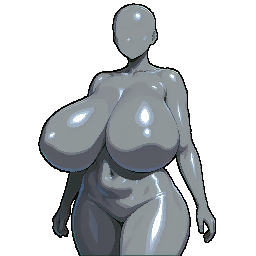
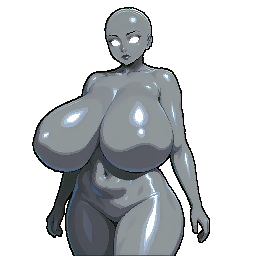
Act on the first four tutorials being walked by a person
The wall first. Tutorial 4 step 3 lights the whole map-button list, and the
callout places itself in the least-blocked corner — with a lit region that
big there is no unblocked corner, so it came to rest over the dropdown the
step was asking the reader to open. The step was unpassable.

The callout is draggable now, which is the only fix that works whenever a step
has to light something large. A drag wins over automatic placement for the
rest of that step, so it does not spring back on the next layout pass, and the
position is forgotten when the step changes so each one is placed afresh. It
stays inside the window: dragged off an edge it could not be retrieved without
restarting.

An empty navigator label really did print the raw token — "vanilla:5_MyRoom"
on the button — while NavigatorButtonDef promised "display name (or the vanilla
in-game name)". The registry carries no display names, so the fallback now
works from the token: drop the scheme, the pack id and the numeric prefix the
game's levels carry, then put spaces back between run-together words.
vanilla:5_MyRoom reads "My Room", 3_LivingRoom "Living Room", pack:MyMod.SecretCave
"Secret Cave". It is a guess and says so; an author who wants exact wording
types a label, which tutorial 2 now has a step for.

Tutorial 1 said "any bust in TutorialArt/Busts" and left the reader to work out
which of ten files in a folder was the base picture. It names the file now, and
the pattern the other four follow.
[…]

Changed region(s): [[0.125, 0.0, 0.8438, 1.0], [0.3438, 0.7812, 0.375, 0.8125]]

diff --git a/SMSModForge/View/Controls/TutorialOverlay.xaml b/SMSModForge/View/Controls/TutorialOverlay.xaml
@@ -37,10 +37,22 @@
             </Rectangle.Effect>
         </Rectangle>
 
+        <!--
+            Draggable. The automatic placement picks the least-blocked corner,
+            which is the right default and still lands on the control when a
+            step lights something large enough to reach every corner — a whole
+            list, say. Being able to shove it aside is the only answer that
+            works in every one of those cases.
+        -->
         <Border x:Name="Callout" HorizontalAlignment="Left" VerticalAlignment="Top"
                 MaxWidth="380" CornerRadius="6" Padding="16,13,16,13"
                 Background="{DynamicResource Theme.Surface}"
-                BorderBrush="#FFC428" BorderThickness="1">
+                BorderBrush="#FFC428" BorderThickness="1"
+                Cursor="SizeAll"
+                ToolTip="Drag to move these instructions out of the way."
+                MouseLeftButtonDown="Callout_MouseLeftButtonDown"
+                MouseMove="Callout_MouseMove"
+                MouseLeftButtonUp="Callout_MouseLeftButtonUp">
             <Border.Effect>
                 <DropShadowEffect Color="#000000" ShadowDepth="3" BlurRadius="18" Opacity="0.5"/>
             </Border.Effect>

diff --git a/SMSModForge/Tutorials/TutorialCatalog.cs b/SMSModForge/Tutorials/TutorialCatalog.cs
@@ -134,8 +134,14 @@ public static class TutorialCatalog
                     Title = "Give them a face",
                     Body = "Every character needs at least one outfit, and every outfit needs a " +
                            "base sprite: the picture of them from the chest up. Point this one " +
-                           "at any bust in TutorialArt/Busts — they differ in shape, which will " +
-                           "matter when you paint a jiggle mask later.\n\n" +
+                           "at one of the five practice busts. They live in TutorialArt/Busts, " +
+                           "one folder each, and the base picture is the file whose name ends in " +
+                           "Base00 — so Bust1 is TutorialArt/Busts/Bust1/Bust1Base00.png, and " +
+                           "Bust2 through Bust5 follow the same pattern.\n\n" +
+                           "Any of them works here. They differ in shape on purpose, which will " +
+                           "matter when you paint a jiggle mask later; the fuller ones give you " +
+                           "more to see. The other files in those folders are the blink, mouth " +
+                           "and expression art, and a later tutorial uses them.\n\n" +
                            "Bust art is 256 by 256 pixels, PNG, with a transparent background. " +
                            "Other sizes are scaled to fit rather than refused, but 256 is the " +
                            "only size whose pixels land exactly as you drew them, and anything " +
@@ -294,6 +300,24 @@ public static class TutorialCatalog
                 },
                 new TutorialStep
                 {
+                    Title = "Say what the button reads",
+                    Body = "Set the button's Label. Without one the game falls back to a name " +
+                           "worked out from the target, which is usually close but rarely what " +
+                           "you would have written — and it is the difference between a button " +
+                           "that says \"My Room\" and one that says whatever the level happens " +
+                           "to be called underneath.\n\n" +
+                           "Write what a player would call the place. The label also takes " +
+                           "[PV:name] tokens, so a button can change what it says once " +
+                           "something in the pack has happened.",
+                    Kind = StepKind.Do,
+                    Tab = TabPlaces,
+                    Anchor = "panel:navigatorButtons",
+                    IsDone = (vm, s) => vm.SelectedPlace is { } p &&
+                                        p.NavigatorButtons.Any(b => b.Label.Trim().Length > 0),
+                    Hint = "The Label box on the navigator button row.",
+                },
+                new TutorialStep
+                {
                     Title = "A door from your bedroom",
                     Body = "Now the way in. The bedroom every save starts in is the one place " +
                            "you can always reach, so that is where the door goes — a vanilla " +
@@ -417,15 +441,36 @@ public static class TutorialCatalog
                     Body = "The name is how everything else finds this object — a rule that " +
                            "switches it on names it, and names repeat all over a level, so pick " +
                            "something you would recognise months from now.\n\n" +
-                           "For the picture, any of the practice art will do; the NPC art in " +
-                           "TutorialArt/NPCs is a convenient shape to see. It does not have to " +
-                           "be art you drew for this — an object is just a sprite in a room.",
+                           "For the picture use TutorialArt/Locations/Vase.png. It is worth " +
+                           "looking at before you pick it: it is a vase and almost nothing " +
+                           "else, on a transparent background, at the size a vase actually is. " +
+                           "Compare that to Room.png, which contains the same vase inside a " +
+                           "full 2048 by 1136 room — the padding IS the difference between a " +
+                           "layer and a prop. Art with a room's worth of empty space around it " +
+                           "cannot be placed, only laid over everything.",
                     Kind = StepKind.Do,
                     Tab = TabPlaces,
                     Anchor = "panel:placeGameObjects",
                     IsDone = (vm, s) => FirstGameObject(vm) is { } g &&
                                         g.Name.Trim().Length > 0 && g.Sprite.Trim().Length > 0,
                     Hint = "Select the object in the tree, then fill in Name and its sprite.",
+                },
+                new TutorialStep
+                {
+                    Title = "Put it where you want it",
+                    Body = "Drag the object in the preview. The gizmo moves the real position — " +
+                           "this is not a preview-only control, it is the same X and Y you " +
+                           "could type in by hand, and typing is the fallback when you want an " +
+                           "exact number rather than a look.\n\n" +
+                           "Put the vase somewhere it could plausibly stand. It will be drawing " +
+                           "over the whole room at the moment, which the next step fixes.",
+                    Kind = StepKind.Do,
+                    Tab = TabPlaces,
+                    Anchor = "panel:placePreview",
+                    AlsoAllow = new[] { "panel:placeGameObjects" },
+                    OnEnter = (vm, s) => s.Set("pos", PropPosition(vm)),
+                    IsDone = (vm, s) => PropPosition(vm) != s.Get<string>("pos"),
+                    Hint = "Click the object in the preview, then drag it.",
                 },
                 new TutorialStep
                 {
@@ -503,10 +548,14 @@ public static class TutorialCatalog
                            "strip, which is a door from one room to another. It works, and it " +
                            "is the right shape for somewhere that sits BEHIND another place — a " +
                            "back office off a shop, a bedroom off a hall.\n\n" +
-                           "The world map is the other way, and it means something different. A " +
-                           "place on the map is somewhere a player can go from anywhere, a " +
-                           "destination in its own right rather than a room reached through " +
-                           "another one. Most somewheres want one or the other, not both.",
+                           "The world map is the other way, and it means something different. " +
+                           "A place on the map is a destination in its own right rather than a " +
+                           "room reached through another one.\n\n" +
+                           "The map is not open from everywhere, mind: the player reaches it by " +
+                           "going to the Garage, into the Car, and pressing Drive. So a map " +
+                           "button suits somewhere they would deliberately travel to, and a " +
+                           "navigator button suits somewhere they walk into from next door. " +
+                           "Most places want one or the other, not both.",
                     Kind = StepKind.Read,
                     Tab = TabMapButtons,
                 },
@@ -605,6 +654,13 @@ public static class TutorialCatalog
         },
 
     };
+
+    /// <summary>Where the first GameObject on the selected place sits, as a
+    /// string so a step can baseline it and notice any move at all — dragging
+    /// is imprecise by nature, so the check asks whether it CHANGED rather than
+    /// where it ended up.</summary>
+    private static string PropPosition(ViewModel.MainViewModel vm)
+        => FirstGameObject(vm) is { } g ? g.X + "," + g.Y : "";
 
     /// <summary>Every GameObject on the selected place, at any depth. Objects
     /// nest, so a count that only saw the top level would miss one added inside

diff --git a/SMSModForge.PackPlugin/NavigatorRuntime.cs b/SMSModForge.PackPlugin/NavigatorRuntime.cs
@@ -1,4 +1,4 @@
-using BepInEx.Logging;
+using BepInEx.Logging;
 using Newtonsoft.Json.Linq;
 using System.Collections.Generic;
 using System.Reflection;
@@ -322,6 +322,62 @@ namespace SMSModForge.PackPlugin
         /// when it sees the sentinel active it fires <see cref="Navigate"/>
         /// and deactivates the sentinel.
         /// </summary>
+        /// <summary>
+        /// Something readable for a button whose author left the label empty.
+        /// <para/>
+        /// It used to print the raw token, so a button to the bedroom read
+        /// "vanilla:5_MyRoom" on screen. Nobody wants that, and NavigatorButtonDef
+        /// already promised otherwise -- "display name (or the vanilla in-game
+        /// name)".
+        /// <para/>
+        /// The registry does not carry display names, so this works from the
+        /// token: drop the scheme, drop a pack id, drop the numeric prefix the
+        /// game's own level objects carry, and put spaces back between words
+        /// that were run together. "vanilla:5_MyRoom" becomes "My Room".
+        /// <para/>
+        /// A guess, and deliberately so -- an author who wants exact wording
+        /// types a label. This only has to beat showing them a token.
+        /// </summary>
+        internal static string FallbackLabel(string targetToken)
+        {
+            if (string.IsNullOrEmpty(targetToken)) return "";
+
+            string s = targetToken;
+
+            int colon = s.IndexOf(':');
+            if (colon >= 0 && colon < s.Length - 1) s = s.Substring(colon + 1);
+
+            // pack:<packId>.<placeKey> keeps only the place.
+            int dot = s.LastIndexOf('.');
+            if (dot >= 0 && dot < s.Length - 1) s = s.Substring(dot + 1);
+
+            // Vanilla levels are named 5_MyRoom, 14_Beach, and so on.
+            int underscore = s.IndexOf('_');
+            if (underscore > 0 && underscore < s.Length - 1)
+            {
+                bool allDigits = true;
+                for (int i = 0; i < underscore; i++)
+                    if (!char.IsDigit(s[i])) { allDigits = false; break; }
+                if (allDigits) s = s.Substring(underscore + 1);
+            }
+
+            s = s.Replace('_', ' ');
+
+            // Split runs-together words: MyRoom -> My Room. Only on a
+            // lower-to-upper boundary, so an acronym stays whole.
+            var sb = new System.Text.StringBuilder(s.Length + 4);
+            for (int i = 0; i < s.Length; i++)
+            {
+                if (i > 0 && char.IsUpper(s[i]) && !char.IsUpper(s[i - 1]) && s[i - 1] != ' ')
+                    sb.Append(' ');
+                sb.Append(s[i]);
+            }
+            s = sb.ToString().Trim();
+
+            if (s.Length == 0) return targetToken;   // nothing left; the token beats blank
+            return char.ToUpperInvariant(s[0]) + s.Substring(1);
+        }
+
         private static GameObject CreateButtonGameObject(GameObject beachButton, Transform parent, string label, string targetToken)
         {
             GameObject mapButton = Object.Instantiate(beachButton, parent);
@@ -356,7 +412,7 @@ namespace SMSModForge.PackPlugin
             if (labelGo != null)
             {
                 var tmp = labelGo.GetComponent<TextMeshProUGUI>();
-                if (tmp != null) tmp.text = string.IsNullOrEmpty(label) ? targetToken : label;
+                if (tmp != null) tmp.text = string.IsNullOrEmpty(label) ? FallbackLabel(targetToken) : label;
             }
 
             return mapButton;

diff --git a/SMSModForge/View/Controls/TutorialOverlay.xaml.cs b/SMSModForge/View/Controls/TutorialOverlay.xaml.cs
@@ -2,6 +2,7 @@
 using System.Collections.Generic;
 using System.Windows;
 using System.Windows.Controls;
+using System.Windows.Input;
 using SMSModForge.Tutorials;
 using SMSModForge.ViewModel;
 
@@ -126,6 +127,9 @@ public partial class TutorialOverlay : UserControl
 
             _anchor?.BringIntoView();
             _corner = -1;            // a new step may want a different corner
+            // A step the reader shoved aside does not decide where the NEXT
+            // step's instructions go: the geometry places each one afresh.
+            _userPlaced = null;
             _forceRefresh = true;
             Refresh();
             if (_anchor != null) Flash?.Invoke(_anchor);
@@ -238,8 +242,70 @@ public partial class TutorialOverlay : UserControl
         return new Size(Math.Ceiling(size.Width), Math.Ceiling(size.Height));
     }
 
+    // ── Dragging the instructions out of the way ─────────────────────
+    //
+    // Automatic placement puts the callout in the least-blocked corner. That is
+    // right nearly always, and cannot be right when a step lights something big
+    // enough to reach all four — the map button list, for one, where the
+    // callout came to rest over the dropdown the step was asking the reader to
+    // open. There is no corner to move to in that case, so the reader gets to
+    // move it themselves.
+
+    private bool _dragging;
+    private Point _dragFrom;
+    private Thickness _dragStartMargin;
+
+    /// <summary>Where the reader has put the callout, if they have moved it.
+    /// Cleared whenever the step changes, so each step starts placed by the
+    /// geometry rather than wherever the last one was shoved.</summary>
+    private Thickness? _userPlaced;
+
+    private void Callout_MouseLeftButtonDown(object sender, MouseButtonEventArgs e)
+    {
+        _dragging = true;
+        _dragFrom = e.GetPosition(this);
+        _dragStartMargin = Callout.Margin;
+        Callout.CaptureMouse();
+        e.Handled = true;
+    }
+
+    private void Callout_MouseMove(object sender, MouseEventArgs e)
+    {
+        if (!_dragging) return;
+        var now = e.GetPosition(this);
+
+        // Kept inside the window: a callout dragged off the edge is a callout
+        // the reader cannot get back without restarting the tutorial.
+        double maxLeft = Math.Max(0, ActualWidth - Callout.ActualWidth);
+        double maxTop = Math.Max(0, ActualHeight - Callout.ActualHeight);
+        double left = Math.Clamp(_dragStartMargin.Left + (now.X - _dragFrom.X), 0, maxLeft);
+        double top = Math.Clamp(_dragStartMargin.Top + (now.Y - _dragFrom.Y), 0, maxTop);
+
+        var m = new Thickness(left, top, 0, 0);
+        Callout.Margin = m;
+        _userPlaced = m;
+        e.Handled = true;
+    }
+
+    private void Callout_MouseLeftButtonUp(object sender, MouseButtonEventArgs e)
+    {
+        if (!_dragging) return;
+        _dragging = false;
+        Callout.ReleaseMouseCapture();
+        e.Handled = true;
+    }
+
     private void PlaceCallout(IReadOnlyList<Rect> holes, Size window)
     {
+        // A reader who has moved it has said where they want it. Re-placing on
+        // the next layout pass would drag it back and read as the window
+        // fighting them.
+        if (_userPlaced is { } placed)
+        {
+            if (Callout.Margin != placed) Callout.Margin = placed;
+            return;
+        }
+
         var wanted = CalloutSize(window);
         _lastCallout = wanted;
 

diff --git a/SMSModForge.Tests/TutorialWalker.cs b/SMSModForge.Tests/TutorialWalker.cs
@@ -166,6 +166,8 @@ internal static class TutorialSolutions
             w.Vm.AddVanillaExtensionCommand.Execute(null),
         ["a-place / Aim it at the bedroom"] = w =>
             w.Vm.SelectedVanillaExtension!.Source = Bedroom,
+        ["a-place / Say what the button reads"] = w =>
+            w.Vm.SelectedPlace!.NavigatorButtons[0].Label = "My Room",
         ["a-place / Point it at your room"] = w =>
         {
             // The check counts buttons on an extension that lead to a pack
@@ -185,8 +187,16 @@ internal static class TutorialSolutions
         ["dressing-the-room / Give it a name and a picture"] = w =>
         {
             var g = w.Vm.SelectedPlace!.GameObjects[0];
-            g.Name = "Lamp";
-            g.Sprite = TutorialAssets.Npc(0);
+            g.Name = "Vase";
+            g.Sprite = TutorialAssets.Prop;
+        },
+        ["dressing-the-room / Put it where you want it"] = w =>
+        {
+            // The gizmo writes the same X and Y a person could type, so moving
+            // it through the view model is the same act.
+            var g = w.Vm.SelectedPlace!.GameObjects[0];
+            g.X += 1.5f;
+            g.Y -= 0.75f;
         },
         ["dressing-the-room / Decide what it stands in front of"] = w =>
             // Between the back layer at -12 and the front at -10.

diff --git a/SMSModForge/Tutorials/TutorialAssets.cs b/SMSModForge/Tutorials/TutorialAssets.cs
@@ -71,6 +71,15 @@ public static class TutorialAssets
     public static string Scene => $"{PackFolder}/Scenes/Dummy/DummyScene01.png";
 
     /// <summary>
+    /// A prop: a vase, drawn at its own size on a transparent background.
+    /// <para/>
+    /// Deliberately NOT a level layer and not NPC art. An object in a room is
+    /// neither, and handing an author one of those to stand in for a prop
+    /// teaches them the wrong shape for the next thing they draw.
+    /// </summary>
+    public static string Prop => $"{PackFolder}/Locations/Vase.png";
+
+    /// <summary>
     /// A music track. An MP3 on purpose: the game takes OGG, WAV and MP3, and a
     /// practice pack that only ever shows one of them teaches that one is the
     /// format.

diff --git a/SMSModForge.Tests/TutorialAssetTests.cs b/SMSModForge.Tests/TutorialAssetTests.cs
@@ -90,6 +90,7 @@ public class TutorialAssetTests
             // needed a sound, and a path that ships in the repo but not in the
             // output is exactly the failure this test exists to catch.
             TutorialAssets.Music, TutorialAssets.Sfx,
+            TutorialAssets.Prop,
         }.Where(p => !Exists(p)).ToList();
 
         Assert.True(missing.Count == 0,
